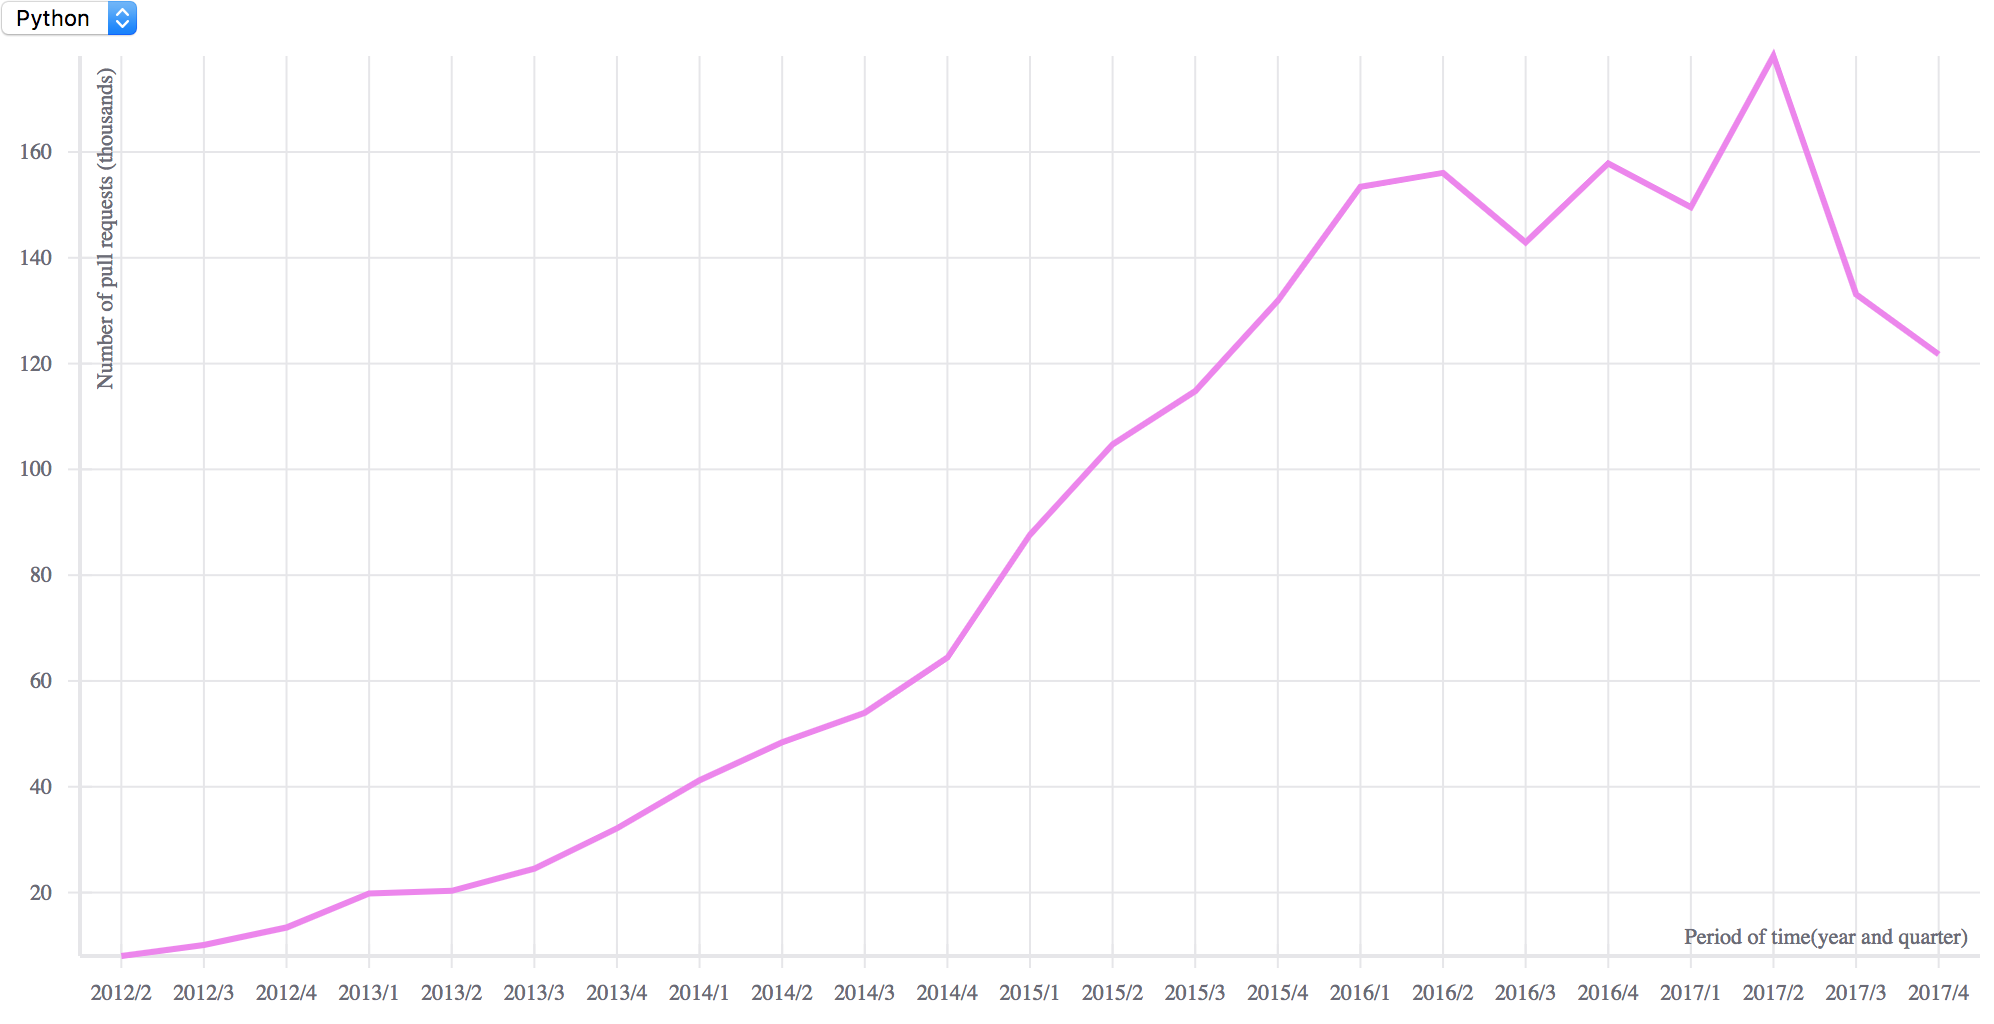
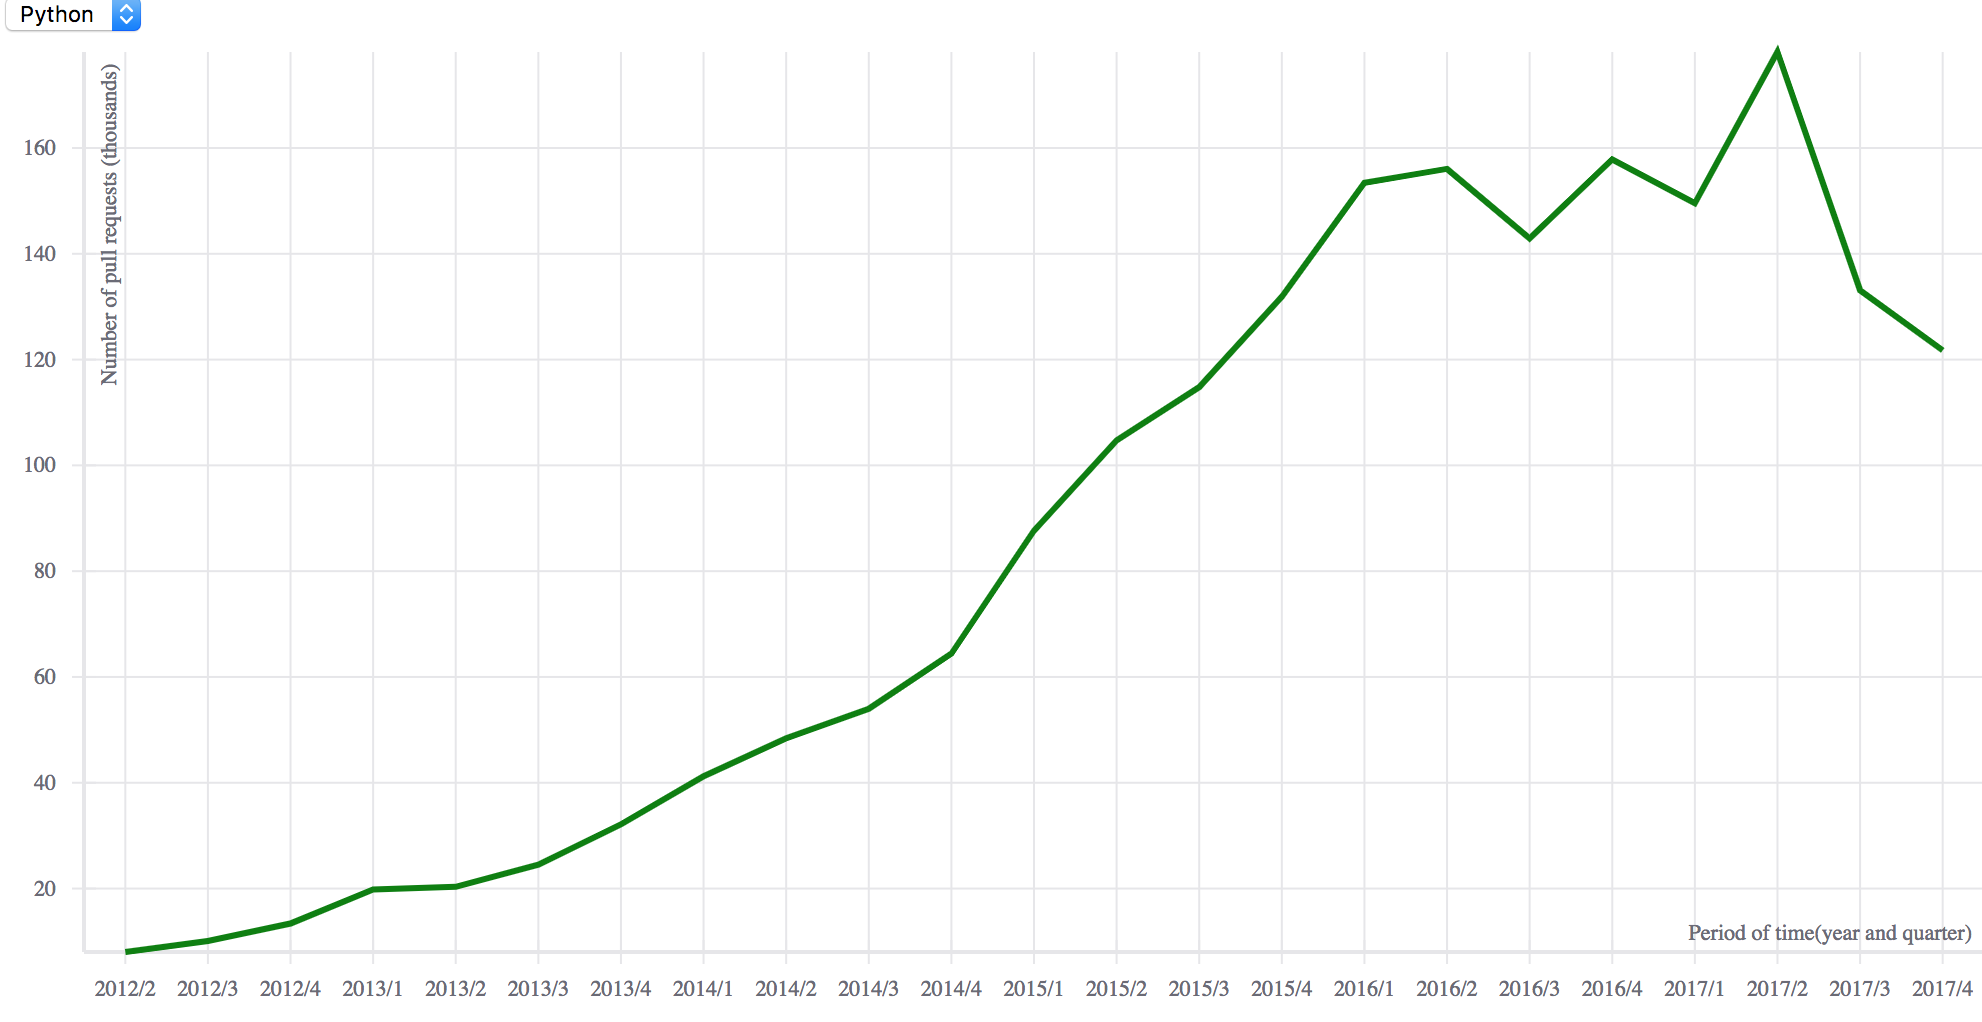
updated colors

diff --git a/src/components/Chart.js b/src/components/Chart.js
@@ -20,7 +20,7 @@ const Chart = (props) => {
             <YAxis title="Number of pull requests (thousands)" />
                 <LineSeries
                     data={dataArr}
-                    style={{stroke: 'violet', strokeWidth: 3}}/>
+                    style={{stroke: 'green', strokeWidth: 3}}/>
         </XYPlot>
     );
 }
